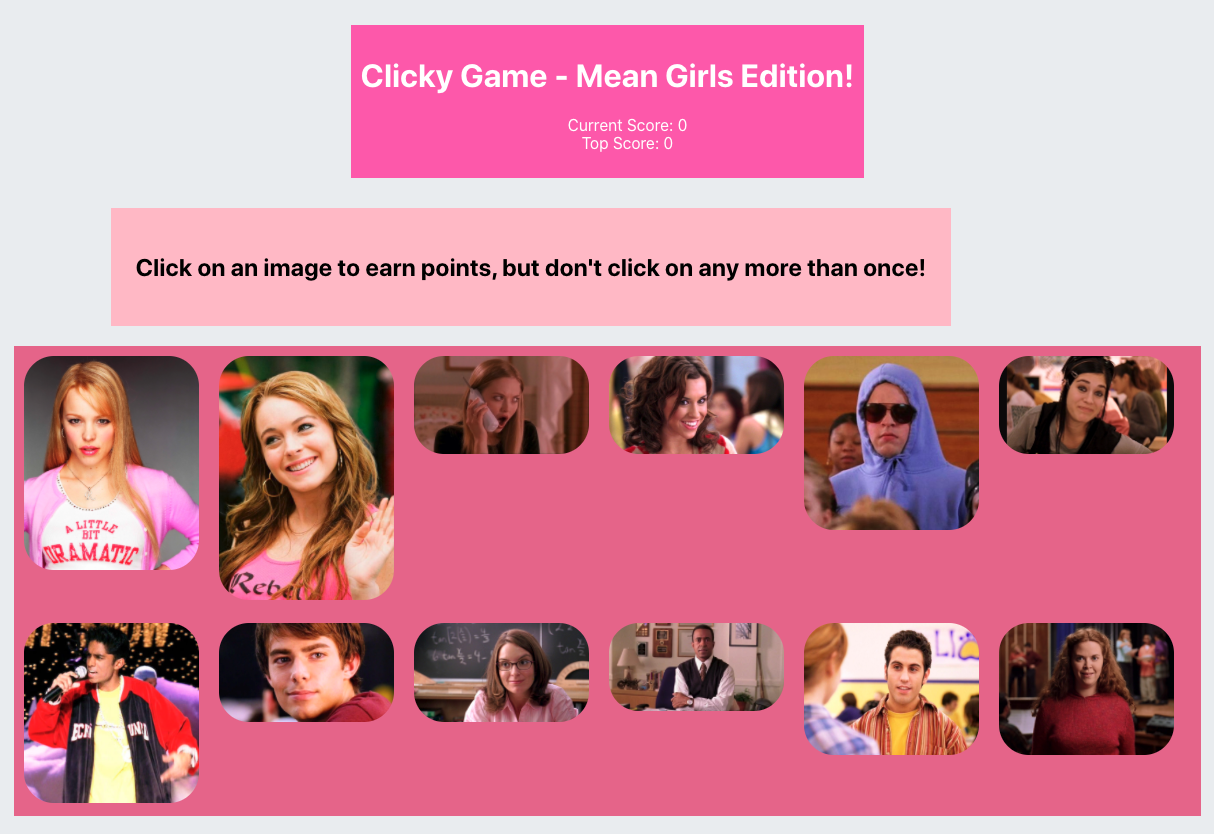
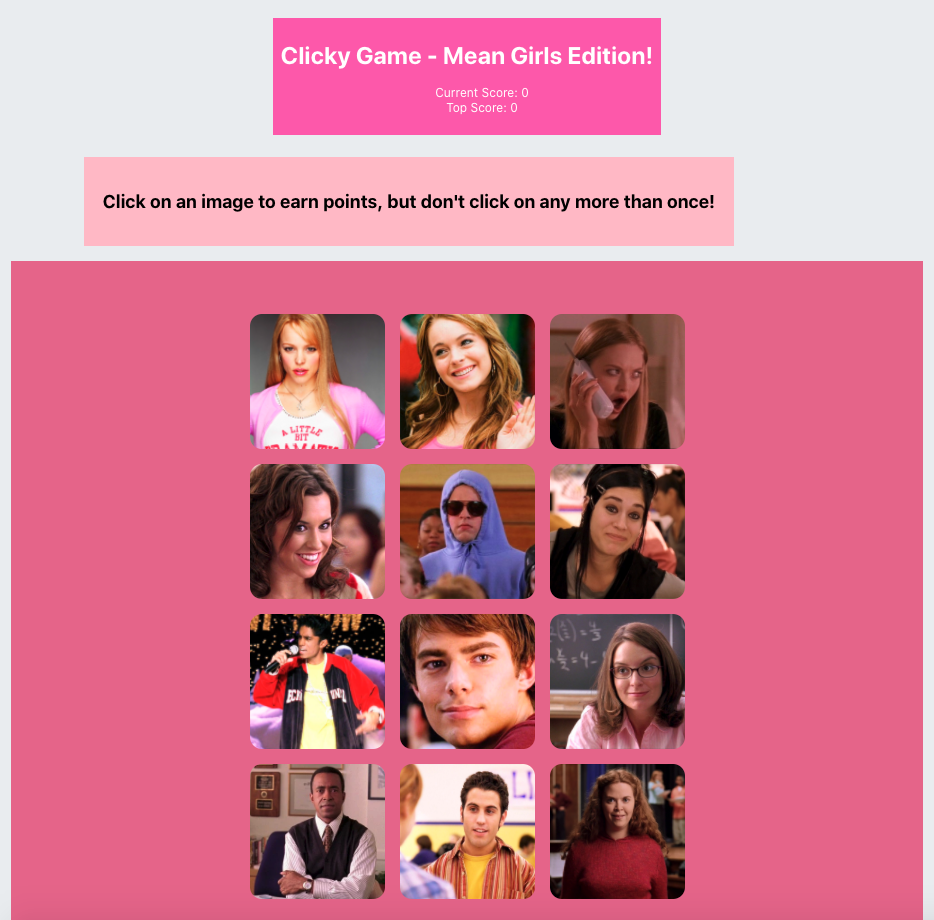
Update README screenshot

diff --git a/build/static/js/main.5aa6ee90.chunk.js b/build/static/js/main.5aa6ee90.chunk.js
@@ -1,0 +1,2 @@
+(this["webpackJsonpclicky-game"]=this["webpackJsonpclicky-game"]||[]).push([[0],[,function(e){e.exports=JSON.parse('[{"id":1,"name":"Regina","image":"https://vignette.wikia.nocookie.net/meangirls/images/4/42/018.jpg/revision/latest?cb=20190429020224"},{"id":2,"name":"Cady","image":"https://i.pinimg.com/originals/51/7e/99/517e99a912d6bc56383c6486c547c6d7.jpg"},{"id":3,"name":"Karen","image":"https://data.whicdn.com/images/279249139/original.jpg"},{"id":4,"name":"Gretchen","image":"https://imgix.bustle.com/elite-daily/2016/08/07212103/Gretchen-Wieners-mean-girls.jpg?w=1020&h=574&fit=crop&crop=faces&auto=format%2Ccompress&cs=srgb&q=70"},{"id":5,"name":"Damian","image":"https://hips.hearstapps.com/hmg-prod.s3.amazonaws.com/images/mv5bngniywnkzmutodg1ni00zjy0lthjzjutnzkwnwfiztjkmwnixkeyxkfqcgdeqxvyntmwota0otaat-v1-1556651595.jpg?crop=0.502xw:1.00xh;0.277xw,0&resize=640:*"},{"id":6,"name":"Janis","image":"https://img.sparknotes.com/content/sparklife/sparktalk/janiceianmpmain_LargeWide.jpg"},{"id":7,"name":"Kevin","image":"https://www.thesun.co.uk/wp-content/uploads/2016/07/nintchdbpict000249514418.jpg"},{"id":8,"name":"Aaron","image":"https://imgix.bustle.com/elite-daily/2016/09/07215054/aaron-samuels.jpg?w=1020&h=574&fit=crop&crop=faces&auto=format%2Ccompress&cs=srgb&q=70"},{"id":9,"name":"Ms. Norbury","image":"https://authenticteachingcharacters.files.wordpress.com/2015/11/tina-fey-mean-girls.jpeg"},{"id":10,"name":"Principal","image":"https://img.cinemablend.com/filter:scale/quill/9/a/2/e/4/5/9a2e45c2ddda0ce853d999b662ecb490ebcad917.jpg?mw=600"},{"id":11,"name":"Jason","image":"https://s30886.pcdn.co/wp-content/uploads/2019/02/jason-from-mean-girls.jpg"},{"id":12,"name":"Weird Girl","image":"https://vignette3.wikia.nocookie.net/meangirls/images/a/a2/Byrd.png/revision/latest?cb=20140903174759"}]')},function(e,t,a){e.exports={photo:"ImageCard_photo__1mb65",card:"ImageCard_card__244EK"}},,,,,function(e,t,a){e.exports={wrapper:"Wrapper_wrapper__acrmz"}},function(e,t,a){e.exports={header:"Header_header__1VCKf"}},function(e,t,a){e.exports={directions:"Directions_directions__2VtJY"}},function(e,t,a){e.exports={container:"Container_container__3RIox"}},,,function(e,t,a){e.exports=a(20)},,,,,function(e,t,a){},function(e,t,a){},function(e,t,a){"use strict";a.r(t);var n=a(0),r=a.n(n),i=a(4),c=a.n(i),o=(a(18),a(5)),s=a(6),l=a(12),m=a(11),d=(a(19),a(7)),h=a.n(d),u=function(e){return r.a.createElement("div",{className:h.a.wrapper},e.children)},g=a(1),p=a(8),f=a.n(p),k=function(e){return r.a.createElement("div",{className:f.a.header},r.a.createElement("h1",null,"Clicky Game - Mean Girls Edition!"),r.a.createElement("div",{className:"scores"},r.a.createElement("ul",null,r.a.createElement("div",{className:"current-score"},"Current Score: ",e.score),r.a.createElement("div",{className:"current-score"},"Top Score: ",e.topScore))))},v=a(9),w=a.n(v),S=function(){return r.a.createElement("section",{className:w.a.directions},r.a.createElement("h2",null,"Click on an image to earn points, but don't click on any more than once!"))},E=a(2),b=a.n(E),y=function(e){return r.a.createElement("div",{className:b.a.card,value:e.id,onClick:function(){return e.handleClick(e.id)}},r.a.createElement("div",{className:b.a.photo,style:{backgroundImage:"url('".concat(e.image,"')")}}))},j=function(e){return r.a.createElement("div",{id:"rw"},r.a.createElement("h1",null,e.rightWrong))},_=a(10),x=a.n(_),C=function(e){return r.a.createElement("div",{className:x.a.container},e.children)};function W(e){for(var t=e.length-1;t>0;t--){var a=Math.floor(Math.random()*(t+1)),n=[e[a],e[t]];e[t]=n[0],e[a]=n[1]}return e}var N=function(e){Object(l.a)(a,e);var t=Object(m.a)(a);function a(){var e;Object(o.a)(this,a);for(var n=arguments.length,r=new Array(n),i=0;i<n;i++)r[i]=arguments[i];return(e=t.call.apply(t,[this].concat(r))).state={images:g,curScore:0,topScore:0,rightWrong:"",clicked:[]},e.handleClick=function(t){-1===e.state.clicked.indexOf(t)?(e.handleIncrement(),e.setState({clicked:e.state.clicked.concat(t)})):e.handleReset()},e.handleIncrement=function(){var t=e.state.curScore+1;e.setState({curScore:t,rightWrong:""}),t>=e.state.topScore?e.setState({topScore:t}):12===t&&e.setState({rightWrong:"You win!"}),e.handleShuffle()},e.handleReset=function(){e.setState({curScore:0,topScore:e.state.topScore,rightWrong:"You lost! Click any image to restart!",clicked:[]})},e.handleShuffle=function(){var t=W(g);e.setState({images:t})},e}return Object(s.a)(a,[{key:"render",value:function(){var e=this;return r.a.createElement(u,null,r.a.createElement(k,{score:this.state.curScore,topScore:this.state.topScore}),r.a.createElement(S,null),r.a.createElement(j,{rightWrong:this.state.rightWrong}),r.a.createElement(C,null,this.state.images.map((function(t){return r.a.createElement("div",{className:"card-container"},r.a.createElement(y,{key:t.id,handleClick:e.handleClick,handleIncrement:e.handleIncrement,handleReset:e.handleReset,handleShuffle:e.handleShuffle,id:t.id,image:t.image}))}))))}}]),a}(n.Component);Boolean("localhost"===window.location.hostname||"[::1]"===window.location.hostname||window.location.hostname.match(/^127(?:\.(?:25[0-5]|2[0-4][0-9]|[01]?[0-9][0-9]?)){3}$/));c.a.render(r.a.createElement(r.a.StrictMode,null,r.a.createElement(N,null)),document.getElementById("root")),"serviceWorker"in navigator&&navigator.serviceWorker.ready.then((function(e){e.unregister()})).catch((function(e){console.error(e.message)}))}],[[13,1,2]]]);
+//# sourceMappingURL=main.5aa6ee90.chunk.js.map

diff --git a/build/index.html b/build/index.html
@@ -1,1 +1,1 @@
-<!doctype html><html lang="en"><head><meta charset="utf-8"/><link rel="icon" href="/clicky-game2/favicon.ico"/><meta name="viewport" content="width=device-width,initial-scale=1"/><meta name="theme-color" content="#000000"/><meta name="description" content="Web site created using create-react-app"/><link rel="apple-touch-icon" href="/clicky-game2/logo192.png"/><link rel="manifest" href="/clicky-game2/manifest.json"/><title>React App</title><link href="/clicky-game2/static/css/main.2ef40b1e.chunk.css" rel="stylesheet"></head><body><noscript>You need to enable JavaScript to run this app.</noscript><div id="root"></div><script>!function(e){function r(r){for(var n,l,c=r[0],i=r[1],a=r[2],p=0,s=[];p<c.length;p++)l=c[p],Object.prototype.hasOwnProperty.call(o,l)&&o[l]&&s.push(o[l][0]),o[l]=0;for(n in i)Object.prototype.hasOwnProperty.call(i,n)&&(e[n]=i[n]);for(f&&f(r);s.length;)s.shift()();return u.push.apply(u,a||[]),t()}function t(){for(var e,r=0;r<u.length;r++){for(var t=u[r],n=!0,c=1;c<t.length;c++){var i=t[c];0!==o[i]&&(n=!1)}n&&(u.splice(r--,1),e=l(l.s=t[0]))}return e}var n={},o={1:0},u=[];function l(r){if(n[r])return n[r].exports;var t=n[r]={i:r,l:!1,exports:{}};return e[r].call(t.exports,t,t.exports,l),t.l=!0,t.exports}l.m=e,l.c=n,l.d=function(e,r,t){l.o(e,r)||Object.defineProperty(e,r,{enumerable:!0,get:t})},l.r=function(e){"undefined"!=typeof Symbol&&Symbol.toStringTag&&Object.defineProperty(e,Symbol.toStringTag,{value:"Module"}),Object.defineProperty(e,"__esModule",{value:!0})},l.t=function(e,r){if(1&r&&(e=l(e)),8&r)return e;if(4&r&&"object"==typeof e&&e&&e.__esModule)return e;var t=Object.create(null);if(l.r(t),Object.defineProperty(t,"default",{enumerable:!0,value:e}),2&r&&"string"!=typeof e)for(var n in e)l.d(t,n,function(r){return e[r]}.bind(null,n));return t},l.n=function(e){var r=e&&e.__esModule?function(){return e.default}:function(){return e};return l.d(r,"a",r),r},l.o=function(e,r){return Object.prototype.hasOwnProperty.call(e,r)},l.p="/clicky-game2/";var c=this["webpackJsonpclicky-game"]=this["webpackJsonpclicky-game"]||[],i=c.push.bind(c);c.push=r,c=c.slice();for(var a=0;a<c.length;a++)r(c[a]);var f=i;t()}([])</script><script src="/clicky-game2/static/js/2.cc6268c0.chunk.js"></script><script src="/clicky-game2/static/js/main.83aa9792.chunk.js"></script></body></html>
+<!doctype html><html lang="en"><head><meta charset="utf-8"/><link rel="icon" href="/clicky-game2/favicon.ico"/><meta name="viewport" content="width=device-width,initial-scale=1"/><meta name="theme-color" content="#000000"/><meta name="description" content="Web site created using create-react-app"/><link rel="apple-touch-icon" href="/clicky-game2/logo192.png"/><link rel="manifest" href="/clicky-game2/manifest.json"/><title>React App</title><link href="/clicky-game2/static/css/main.a011fa03.chunk.css" rel="stylesheet"></head><body><noscript>You need to enable JavaScript to run this app.</noscript><div id="root"></div><script>!function(e){function r(r){for(var n,l,c=r[0],i=r[1],a=r[2],p=0,s=[];p<c.length;p++)l=c[p],Object.prototype.hasOwnProperty.call(o,l)&&o[l]&&s.push(o[l][0]),o[l]=0;for(n in i)Object.prototype.hasOwnProperty.call(i,n)&&(e[n]=i[n]);for(f&&f(r);s.length;)s.shift()();return u.push.apply(u,a||[]),t()}function t(){for(var e,r=0;r<u.length;r++){for(var t=u[r],n=!0,c=1;c<t.length;c++){var i=t[c];0!==o[i]&&(n=!1)}n&&(u.splice(r--,1),e=l(l.s=t[0]))}return e}var n={},o={1:0},u=[];function l(r){if(n[r])return n[r].exports;var t=n[r]={i:r,l:!1,exports:{}};return e[r].call(t.exports,t,t.exports,l),t.l=!0,t.exports}l.m=e,l.c=n,l.d=function(e,r,t){l.o(e,r)||Object.defineProperty(e,r,{enumerable:!0,get:t})},l.r=function(e){"undefined"!=typeof Symbol&&Symbol.toStringTag&&Object.defineProperty(e,Symbol.toStringTag,{value:"Module"}),Object.defineProperty(e,"__esModule",{value:!0})},l.t=function(e,r){if(1&r&&(e=l(e)),8&r)return e;if(4&r&&"object"==typeof e&&e&&e.__esModule)return e;var t=Object.create(null);if(l.r(t),Object.defineProperty(t,"default",{enumerable:!0,value:e}),2&r&&"string"!=typeof e)for(var n in e)l.d(t,n,function(r){return e[r]}.bind(null,n));return t},l.n=function(e){var r=e&&e.__esModule?function(){return e.default}:function(){return e};return l.d(r,"a",r),r},l.o=function(e,r){return Object.prototype.hasOwnProperty.call(e,r)},l.p="/clicky-game2/";var c=this["webpackJsonpclicky-game"]=this["webpackJsonpclicky-game"]||[],i=c.push.bind(c);c.push=r,c=c.slice();for(var a=0;a<c.length;a++)r(c[a]);var f=i;t()}([])</script><script src="/clicky-game2/static/js/2.cc6268c0.chunk.js"></script><script src="/clicky-game2/static/js/main.5aa6ee90.chunk.js"></script></body></html>

diff --git a/build/static/css/main.a011fa03.chunk.css b/build/static/css/main.a011fa03.chunk.css
@@ -1,0 +1,2 @@
+body{margin:0;font-family:-apple-system,BlinkMacSystemFont,"Segoe UI","Roboto","Oxygen","Ubuntu","Cantarell","Fira Sans","Droid Sans","Helvetica Neue",sans-serif;-webkit-font-smoothing:antialiased;-moz-osx-font-smoothing:grayscale}code{font-family:source-code-pro,Menlo,Monaco,Consolas,"Courier New",monospace}.App{text-align:center}.App-logo{height:40vmin;pointer-events:none}@media (prefers-reduced-motion:no-preference){.App-logo{-webkit-animation:App-logo-spin 20s linear infinite;animation:App-logo-spin 20s linear infinite}}.App-header{background-color:#282c34;min-height:100vh;display:flex;flex-direction:column;align-items:center;justify-content:center;font-size:calc(10px + 2vmin);color:#fff}.App-link{color:#61dafb}@-webkit-keyframes App-logo-spin{0%{transform:rotate(0deg)}to{transform:rotate(1turn)}}@keyframes App-logo-spin{0%{transform:rotate(0deg)}to{transform:rotate(1turn)}}.Wrapper_wrapper__acrmz{background:#eceff1;height:100%;display:flex;flex-flow:row wrap;padding:20px;justify-content:space-around;align-content:flex-start;overflow:auto}.Header_header__1VCKf{text-align:center;padding:10px;margin:10px;background-color:#ed67b3;color:#fff}.Directions_directions__2VtJY{text-align:center;padding:25px;margin:20px;background-color:pink}.ImageCard_photo__1mb65{width:180px;height:180px;margin:10px;border-radius:16px;background-size:cover;background-position:50%;background-repeat:no-repeat}.ImageCard_card__244EK{display:flex}.Container_container__3RIox{display:flex;flex-wrap:wrap;background-color:#db7093;padding:5% 25%;justify-content:center}
+/*# sourceMappingURL=main.a011fa03.chunk.css.map */

diff --git a/build/precache-manifest.50bcee7bf48f33c396dfa81c83a26d8e.js b/build/precache-manifest.50bcee7bf48f33c396dfa81c83a26d8e.js
@@ -1,11 +1,11 @@
 self.__precacheManifest = (self.__precacheManifest || []).concat([
   {
-    "revision": "eb0eae28daad3f1663a1b968d3929462",
+    "revision": "e364d9ed910313d42b0fe9a033cbbfa5",
     "url": "/clicky-game2/index.html"
   },
   {
-    "revision": "b0d30282d98af2bdce9c",
-    "url": "/clicky-game2/static/css/main.2ef40b1e.chunk.css"
+    "revision": "08be550284cb72c59e5f",
+    "url": "/clicky-game2/static/css/main.a011fa03.chunk.css"
   },
   {
     "revision": "7e2a34f8973452ef089b",
@@ -16,8 +16,8 @@ self.__precacheManifest = (self.__precacheManifest || []).concat([
     "url": "/clicky-game2/static/js/2.cc6268c0.chunk.js.LICENSE.txt"
   },
   {
-    "revision": "b0d30282d98af2bdce9c",
-    "url": "/clicky-game2/static/js/main.83aa9792.chunk.js"
+    "revision": "08be550284cb72c59e5f",
+    "url": "/clicky-game2/static/js/main.5aa6ee90.chunk.js"
   },
   {
     "revision": "26bfdc3c5d2ff87caa3b",

diff --git a/build/service-worker.js b/build/service-worker.js
@@ -14,7 +14,7 @@
 importScripts("https://storage.googleapis.com/workbox-cdn/releases/4.3.1/workbox-sw.js");
 
 importScripts(
-  "/clicky-game2/precache-manifest.73e3954b2cad880a19c98a617e7c22d3.js"
+  "/clicky-game2/precache-manifest.50bcee7bf48f33c396dfa81c83a26d8e.js"
 );
 
 self.addEventListener('message', (event) => {
